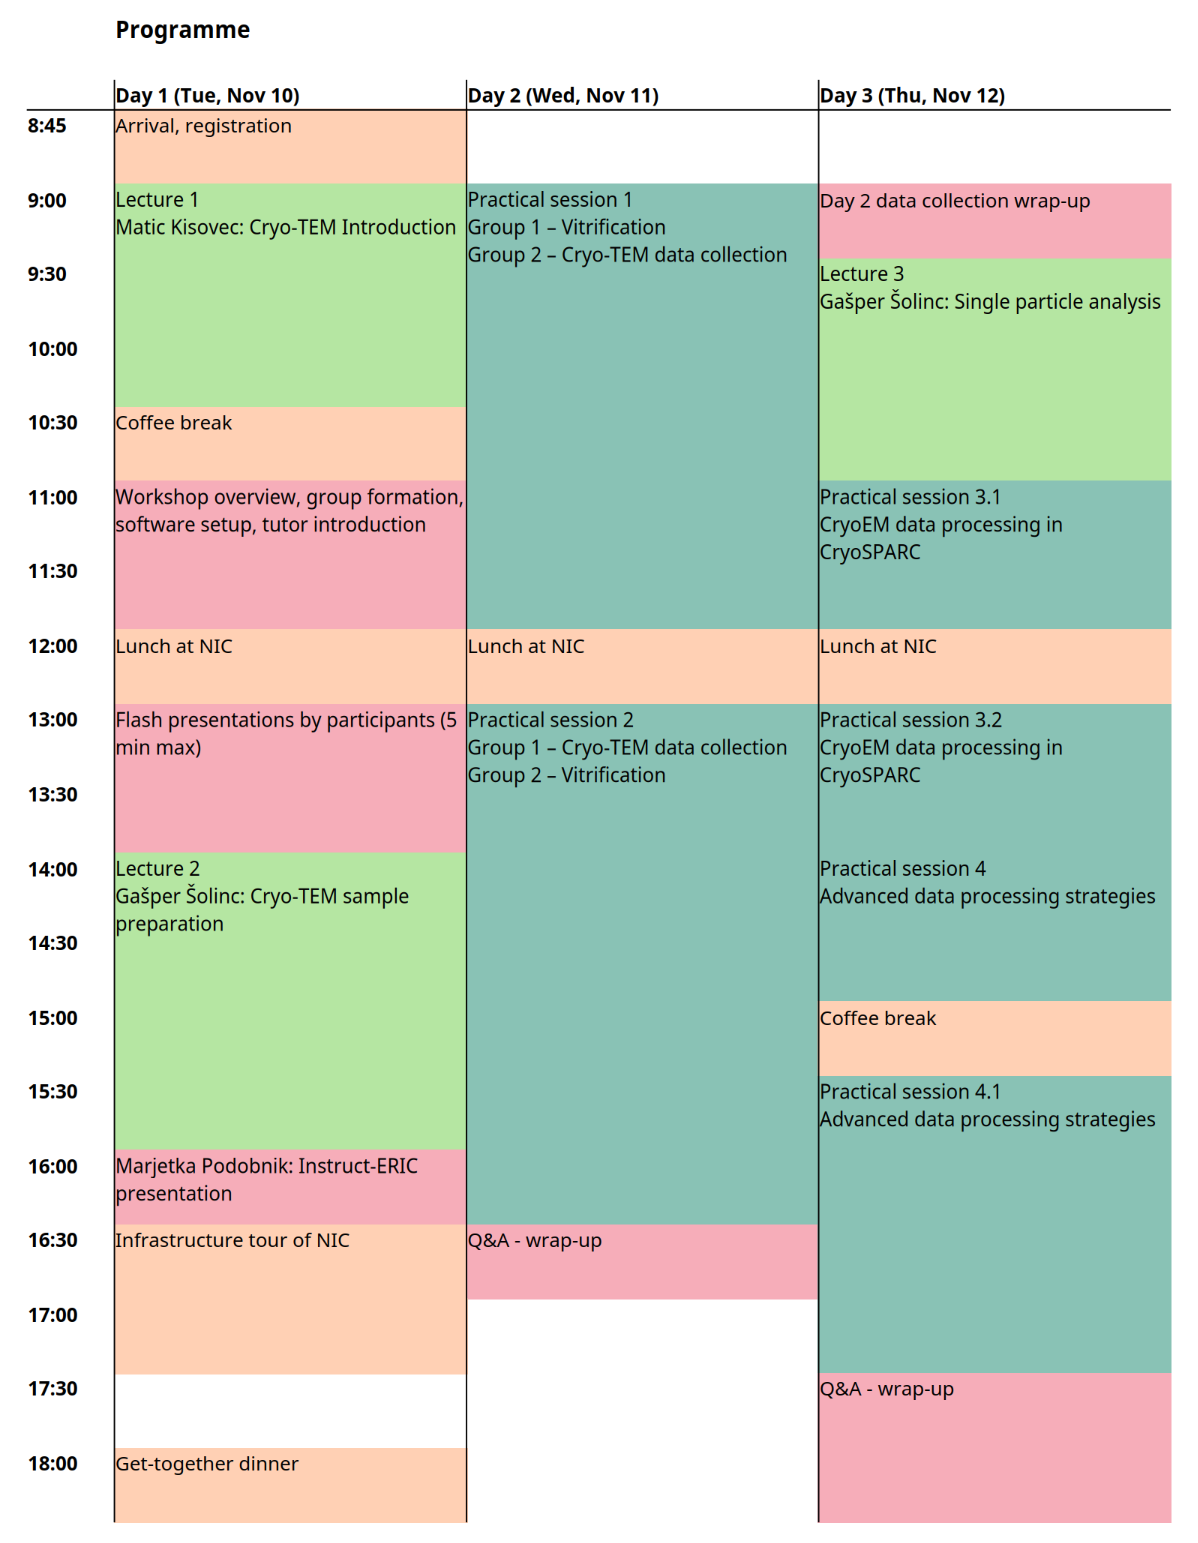
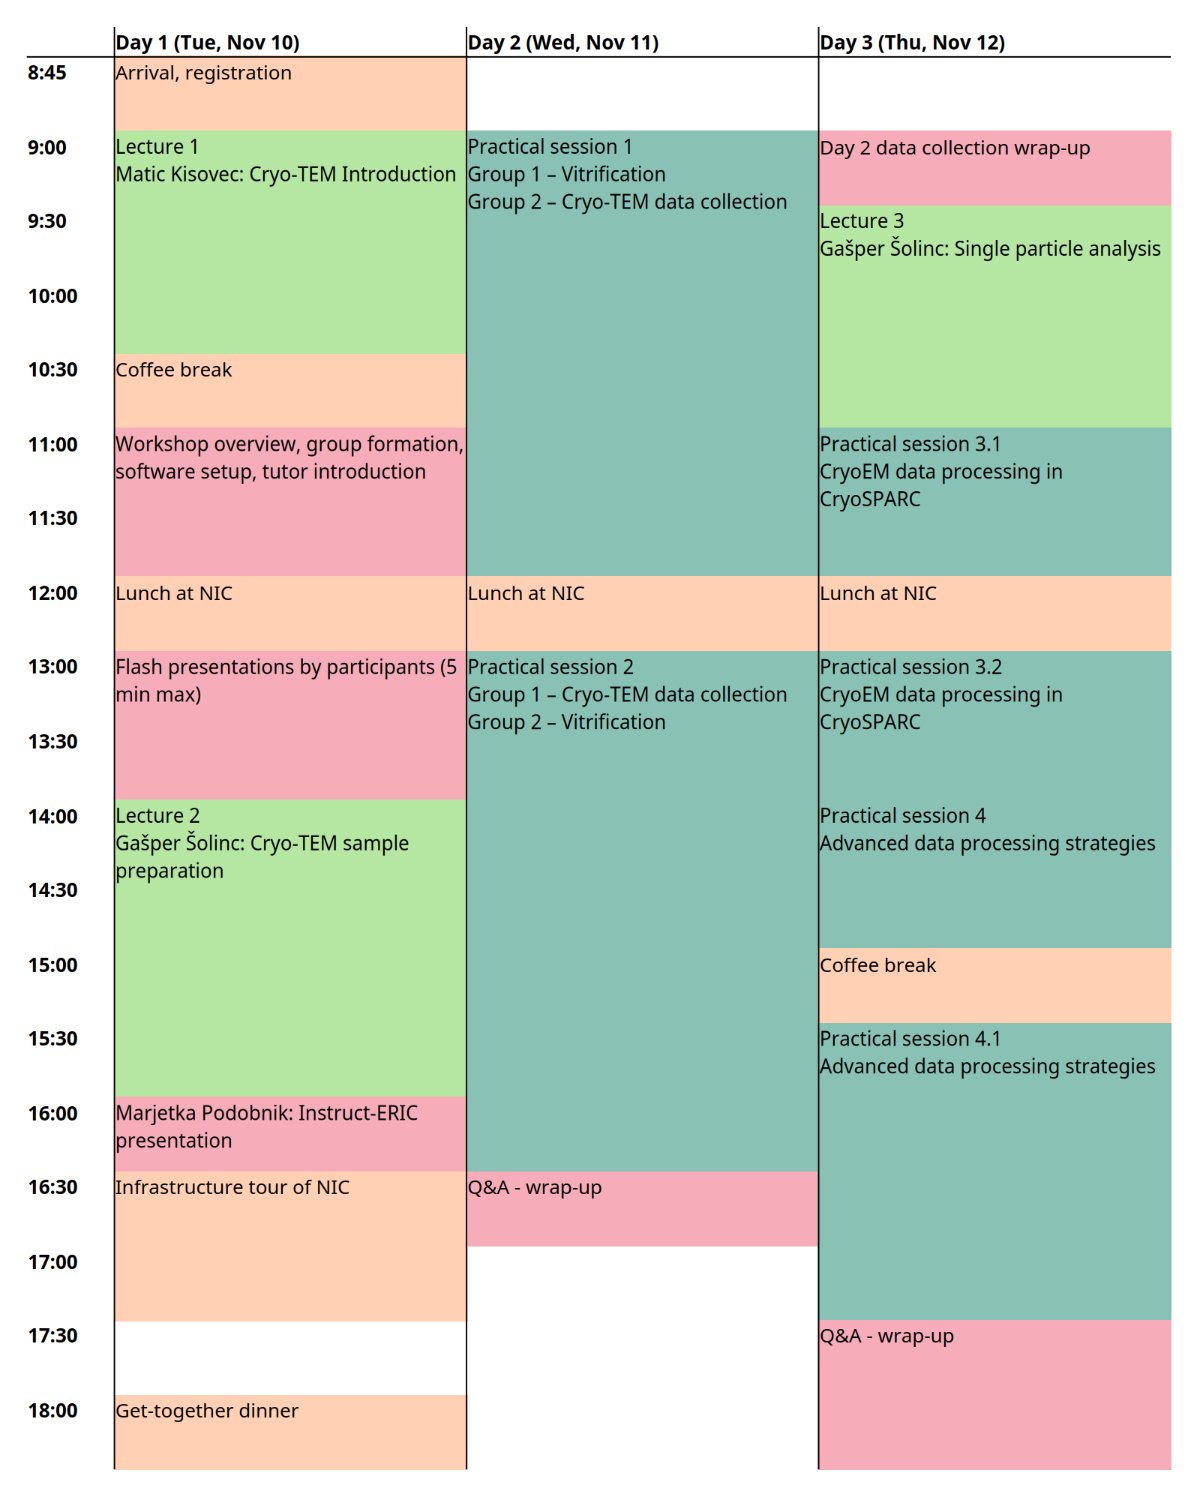
Comment some text, update programme image

diff --git a/_pages/spa2026.md b/_pages/spa2026.md
@@ -57,7 +57,7 @@ Cryo-EM Workshop on Single Particle Analysis (SPA) is based on the very positive
 </ul> 
 <br>
 
-**Preliminary programme** <br>
+**Updated programme** <br>
 ![Programme v2]({{ site.url }}{{ site.baseurl }}/assets/images/spa2026/Programme_SPA2026_v2.png)
 
 **Date and place** <br>
@@ -71,8 +71,8 @@ Up to eight (8) attendees will be selected based on their **CV and motivation le
 ## Registration
 There is no registration fee, lunch and coffee breaks are included. <br>
 Registration closed.
-<!-- # Please register here: [Application form](https://forms.gle/YHL9UtLvwXU61V149) <br>
-# **<u>Registration deadline October 2, 2026</u>** -->
+<!--Please register here: [Application form](https://forms.gle/YHL9UtLvwXU61V149)
+**<u>Registration deadline October 2, 2026</u>**-->
 <br>
 
 ## Contact
